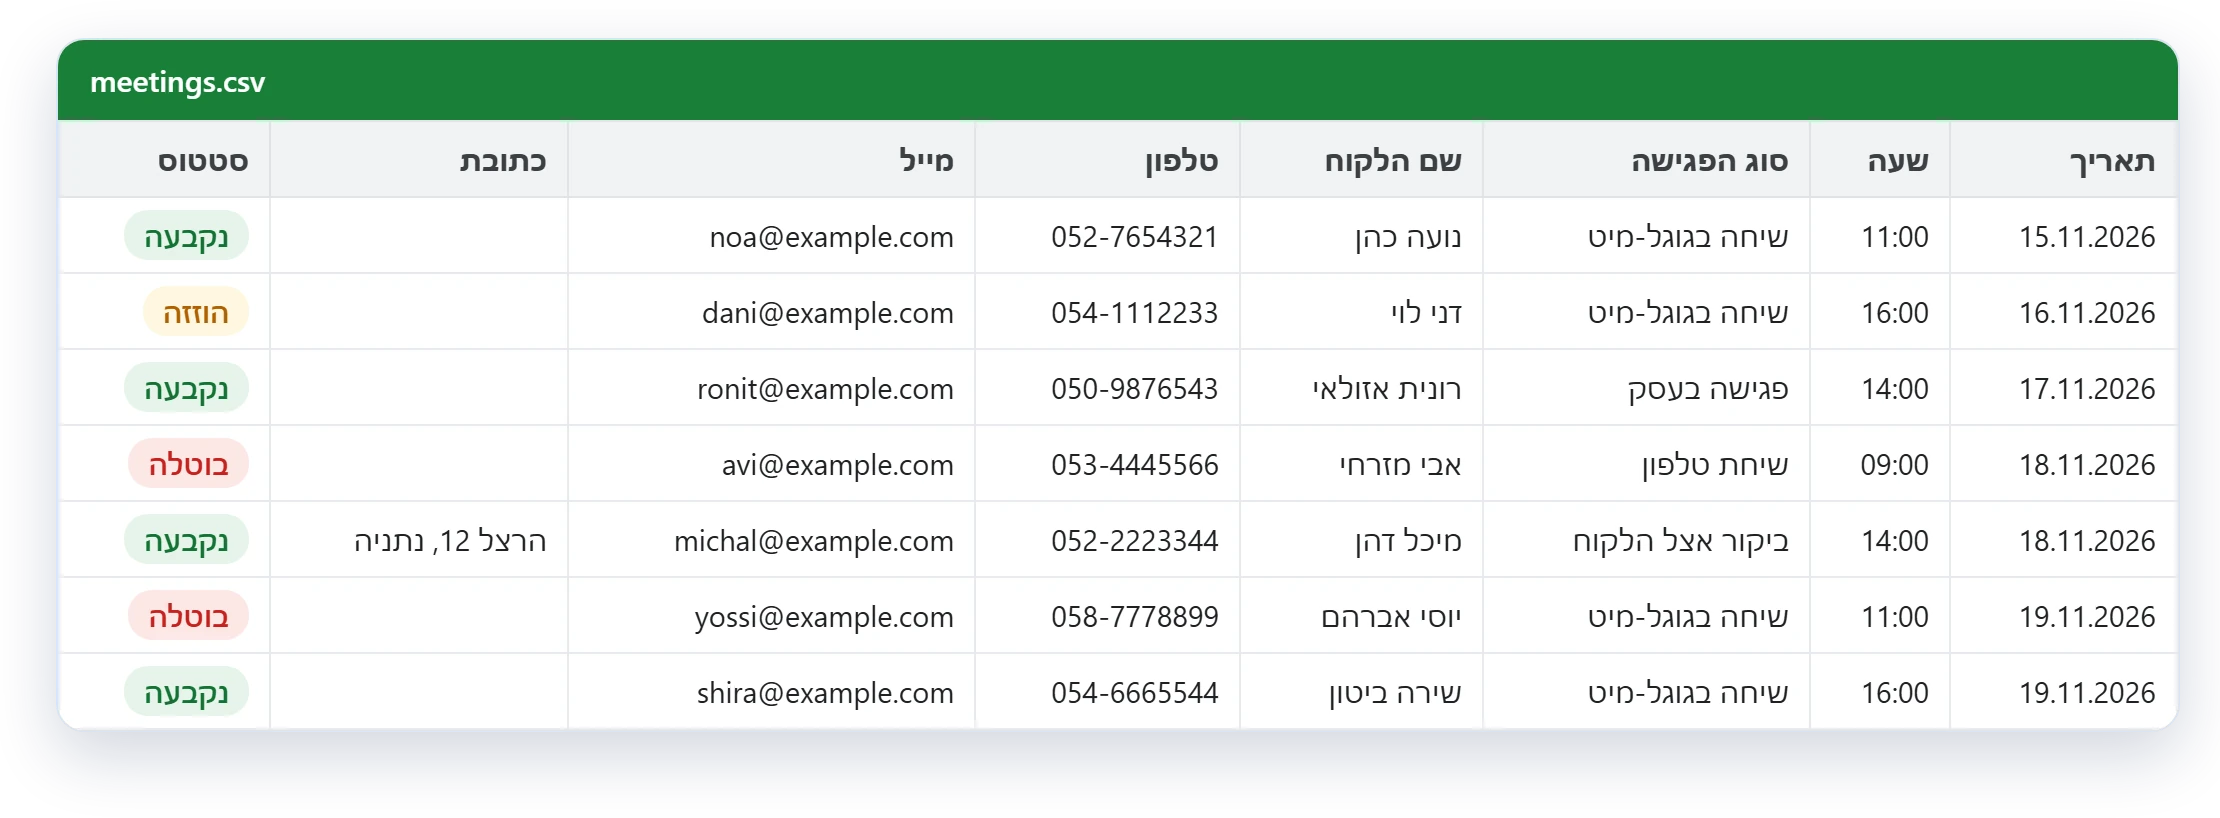
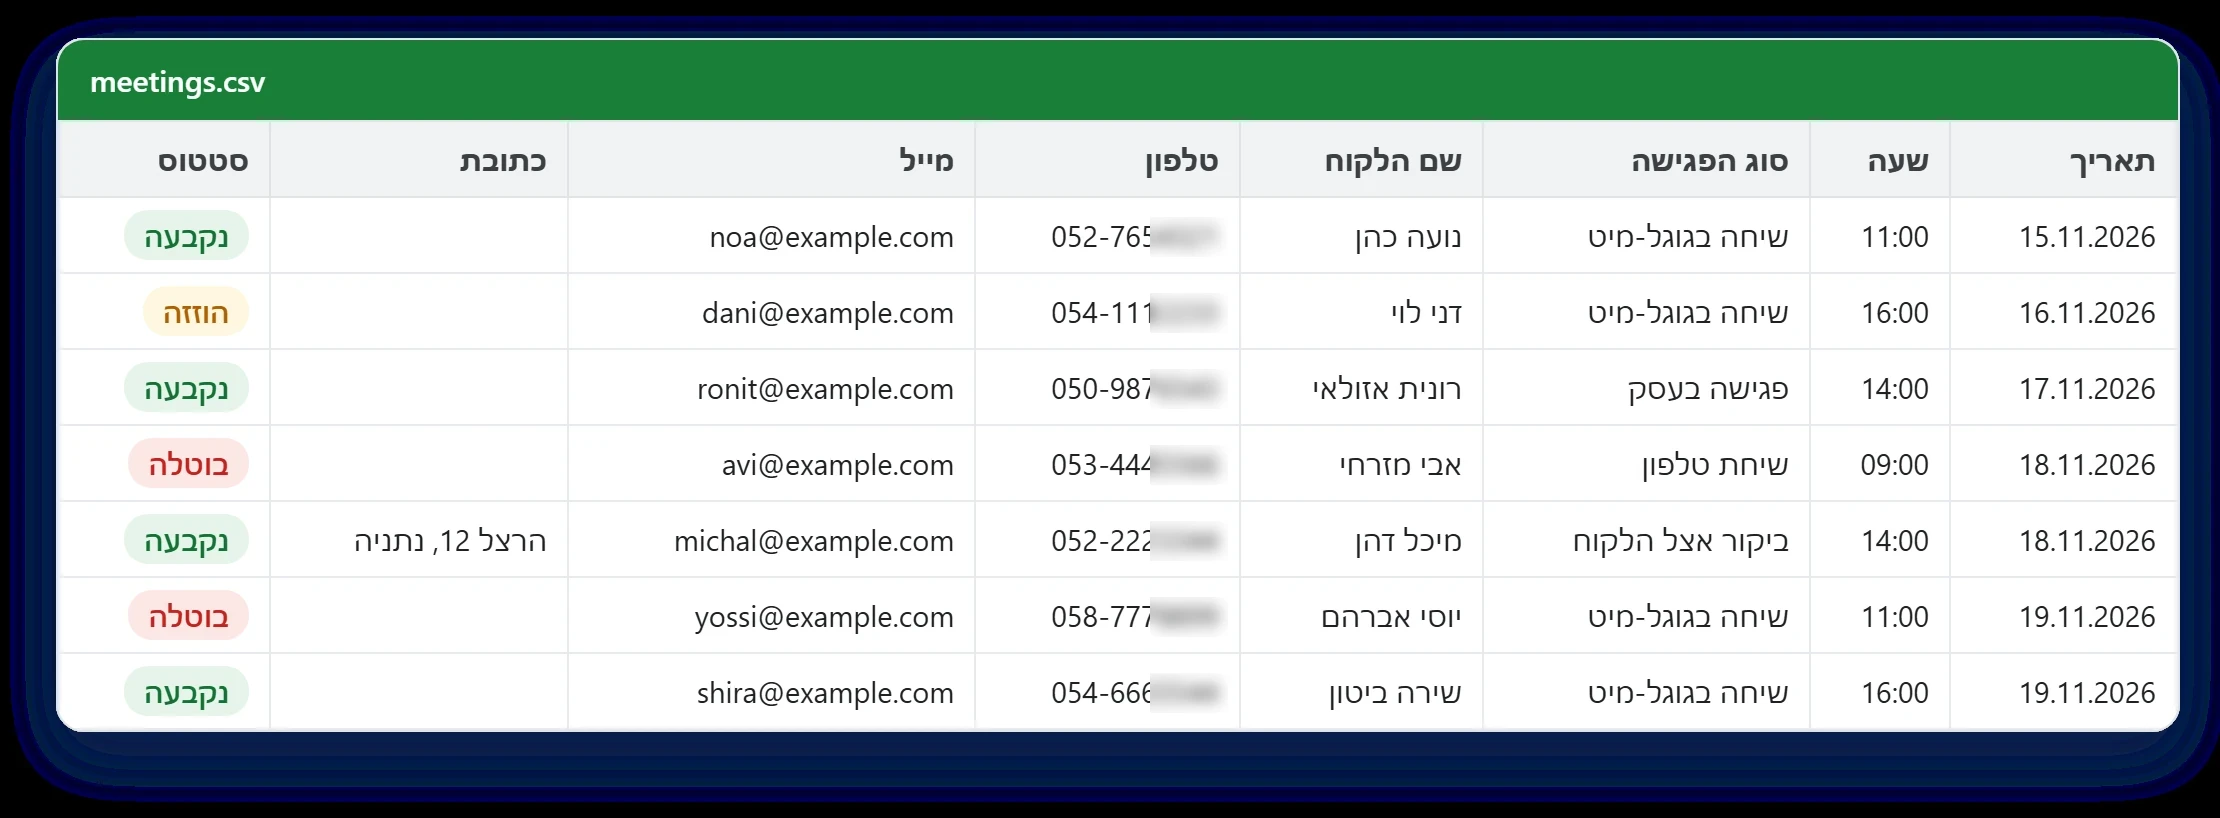
yoman: 'קישור אחד, לכל מקום' ראשון מתחת ל'מה הלקוחות רואים', וטשטוש ספרות הטלפון ברשימת הפגישות

diff --git a/yoman/index.html b/yoman/index.html
@@ -165,6 +165,18 @@
     <section class="sec bg-light">
       <div class="wrap-wide feat">
         <div>
+          <span class="svc-ico" aria-hidden="true">🔗</span>
+          <h3 id="link">קישור אחד, לכל מקום</h3>
+          <p><b>לכל עסק יש קישור קבוע משלו,</b> עם כפתור העתקה.</p>
+          <p>שמים אותו בביו באינסטגרם, באתר, בחתימה של המייל או בהודעה בוואטסאפ, <b>ומי שלוחץ עליו פשוט קובע.</b></p>
+        </div>
+        <figure class="shot shot-mid" style="max-width:760px"><img src="/assets/img/yoman/link.webp?v=2" width="1540" height="720" loading="lazy" alt="מסך הקישור לקביעת פגישות, עם כפתור העתקת הקישור" /></figure>
+      </div>
+    </section>
+
+    <section class="sec sec-band">
+      <div class="wrap-wide feat">
+        <div>
           <span class="svc-ico" aria-hidden="true">📅</span>
           <h3 id="booking">עמוד קביעת פגישה - אסתטי ומקצועי - בעברית (מימין לשמאל)</h3>
           <p>הלקוח נכנס לקישור שלכם <b>ובוחר יום שפתוח</b> אצלכם,<br><b>הוא לא רואה את הדברים האישיים שלכם</b> אלא רק -<br><b>רואה רק את השעות שבאמת פנויות</b> לכם.</p>
@@ -177,7 +189,7 @@
       </div>
     </section>
 
-    <section class="sec sec-band">
+    <section class="sec bg-light">
       <div class="wrap-wide feat">
         <div>
           <span class="svc-ico" aria-hidden="true">✍</span>
@@ -195,7 +207,7 @@
       </div>
     </section>
 
-    <section class="sec bg-light">
+    <section class="sec sec-band">
       <div class="wrap-wide feat">
         <div>
           <span class="svc-ico" aria-hidden="true">🔐</span>
@@ -207,7 +219,7 @@
       </div>
     </section>
 
-    <section class="sec sec-band">
+    <section class="sec bg-light">
       <div class="wrap-wide feat">
         <div>
           <span class="svc-ico" aria-hidden="true">✅</span>
@@ -227,7 +239,7 @@
       </div>
     </section>
 
-    <section class="sec bg-light">
+    <section class="sec sec-band">
       <div class="wrap-wide feat">
         <div>
           <span class="svc-ico" aria-hidden="true">⏰</span>
@@ -245,7 +257,7 @@
       </div>
     </section>
 
-    <section class="sec sec-band">
+    <section class="sec bg-light">
       <div class="wrap-wide feat">
         <div>
           <span class="svc-ico" aria-hidden="true">💬</span>
@@ -256,7 +268,7 @@
       </div>
     </section>
 
-    <section class="sec bg-light">
+    <section class="sec sec-band">
       <div class="wrap-wide feat">
         <div>
           <span class="svc-ico" aria-hidden="true">⚖</span>
@@ -375,18 +387,6 @@
     <section class="sec sec-band">
       <div class="wrap-wide feat">
         <div>
-          <span class="svc-ico" aria-hidden="true">🔗</span>
-          <h3 id="link">קישור אחד, לכל מקום</h3>
-          <p><b>לכל עסק יש קישור קבוע משלו,</b> עם כפתור העתקה.</p>
-          <p>שמים אותו בביו באינסטגרם, באתר, בחתימה של המייל או בהודעה בוואטסאפ, <b>ומי שלוחץ עליו פשוט קובע.</b></p>
-        </div>
-        <figure class="shot shot-mid" style="max-width:760px"><img src="/assets/img/yoman/link.webp?v=2" width="1540" height="720" loading="lazy" alt="מסך הקישור לקביעת פגישות, עם כפתור העתקת הקישור" /></figure>
-      </div>
-    </section>
-
-    <section class="sec bg-light">
-      <div class="wrap-wide feat">
-        <div>
           <span class="svc-ico" aria-hidden="true">🤖</span>
           <h3 id="bot">עובד יחד עם הבוט של שירות הלקוחות</h3>
           <p>יש לכם בוט בוואטסאפ, או שאתם בונים כזה איתי? <b>כשמישהו רוצה לקבוע, הבוט שולח לו את הקישור ליומן, והוא קובע שם לבד.</b></p>
@@ -395,7 +395,7 @@
       </div>
     </section>
 
-    <section class="sec sec-band">
+    <section class="sec bg-light">
       <div class="wrap-wide feat">
         <div>
           <span class="svc-ico" aria-hidden="true">⭐</span>
@@ -406,7 +406,7 @@
       </div>
     </section>
 
-    <section class="sec bg-light">
+    <section class="sec sec-band">
       <div class="wrap-wide feat">
         <div>
           <span class="svc-ico" aria-hidden="true">📊</span>
@@ -419,11 +419,11 @@
         <div class="shot-head">
           <h4 class="feat-sub">ככה נראה הקובץ</h4>
         </div>
-        <figure class="shot" style="max-width:1000px"><img src="/assets/img/yoman/export-sheet.webp?v=1" width="2220" height="818" loading="lazy" alt="קובץ רשימת הפגישות: שורה לכל פגישה עם הפרטים והסטטוס נקבעה, הוזזה או בוטלה" /></figure>
+        <figure class="shot" style="max-width:1000px"><img src="/assets/img/yoman/export-sheet.webp?v=2" width="2220" height="818" loading="lazy" alt="קובץ רשימת הפגישות: שורה לכל פגישה עם הפרטים והסטטוס נקבעה, הוזזה או בוטלה" /></figure>
       </div>
     </section>
 
-    <section class="sec sec-band">
+    <section class="sec bg-light">
       <div class="wrap-wide">
         <h2 id="more" style="text-align:center;margin-bottom:clamp(22px,3vw,34px)">ועוד המון דברים שיש בפנים</h2>
         <div class="grid grid-3 more-feats">
@@ -483,7 +483,7 @@
     </section>
 
     <!-- ===== 3 · למה בניתי ===== -->
-    <section class="sec bg-light">
+    <section class="sec sec-band">
       <div class="wrap-wide about">
         <figure class="about-img" style="margin:0">
           <img src="/assets/img/yoman/ilana-office.webp?v=1" width="1122" height="1402" loading="lazy" alt="אילנה וייס" />
@@ -502,7 +502,7 @@
     </section>
 
     <!-- ===== שדרוגים ===== -->
-    <section class="sec sec-band">
+    <section class="sec bg-light">
       <div class="wrap-wide">
         <h2 id="upgrades" style="text-align:center;margin-bottom:clamp(22px,3vw,34px)">ואפשר גם לשדרג</h2>
         <div class="grid grid-3 more-feats">
@@ -526,7 +526,7 @@
     </section>
 
     <!-- ===== המחיר ===== -->
-    <section class="sec bg-light">
+    <section class="sec sec-band">
       <div class="wrap" style="text-align:center">
         <h2 id="price" style="color:#A87D27">כמה זה עולה?</h2>
         <p style="font-size:clamp(22px,2.6vw,30px);font-weight:800;color:var(--navy);margin:6px 0 4px">97 ש"ח לחודש</p>
@@ -535,7 +535,7 @@
     </section>
 
     <!-- ===== איך מתחילים ===== -->
-    <section class="sec sec-band">
+    <section class="sec bg-light">
       <div class="wrap-wide">
         <h2 id="how" style="text-align:center;margin-bottom:clamp(22px,3vw,34px)">איך מתחילים</h2>
         <div class="grid grid-3 how-steps">
@@ -575,6 +575,7 @@
     <a href="#benefits">מה היומן פותר לכם</a>
     <a href="#who">למי זה מתאים</a>
     <a href="#booking">מה הלקוחות רואים</a>
+    <a href="#link">הקישור שלכם</a>
     <a href="#details">קביעה מיידית</a>
     <a href="#no-double">בלי כפל פגישות</a>
     <a href="#booked">אחרי הקביעה</a>
@@ -586,7 +587,6 @@
     <a href="#one-day">שינוי ביום מסוים</a>
     <a href="#vacation">חופשות</a>
     <a href="#open-from">מאיזה יום פתוח</a>
-    <a href="#link">הקישור שלכם</a>
     <a href="#bot">עם הבוט</a>
     <a href="#together">הכל במקום אחד</a>
     <a href="#export">רשימת הפגישות</a>
